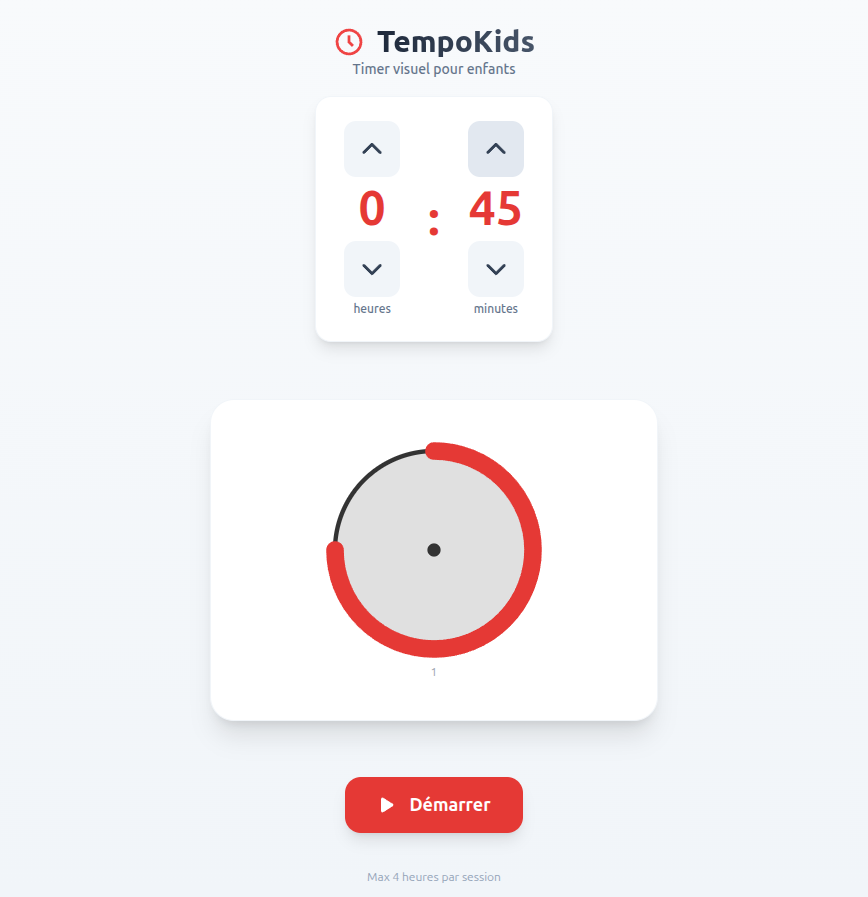
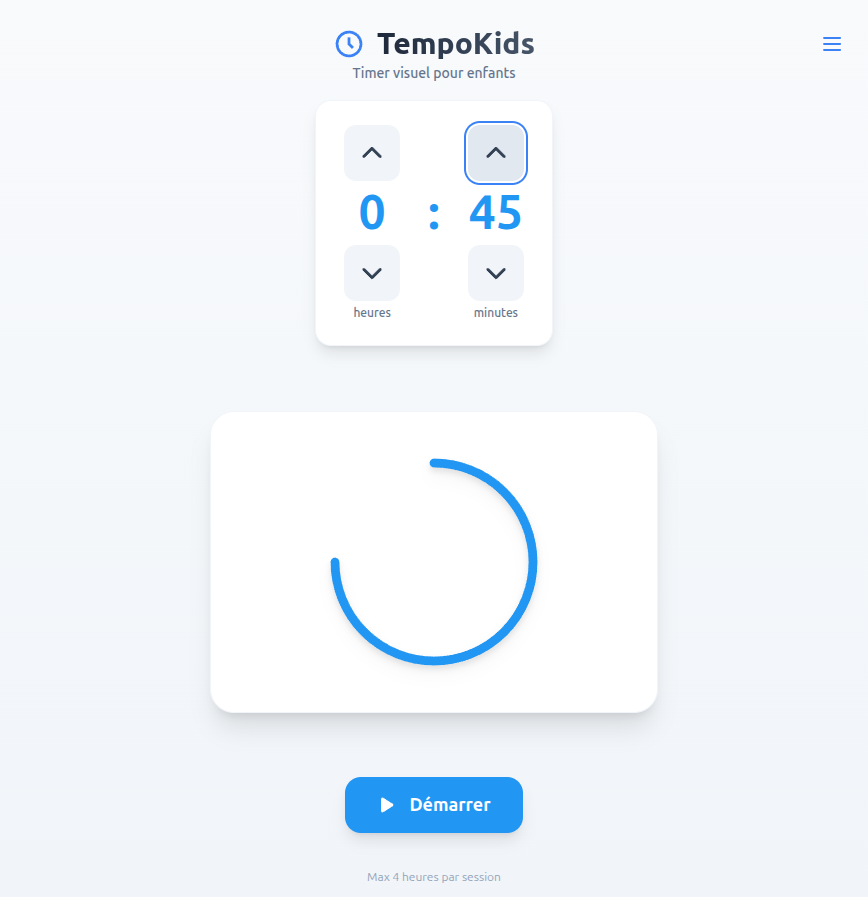
feat(menu): add pastel circle toggle option
- Add toggle switch in burger menu to enable/disable inner pastel circle
- Pastel circle disabled by default (was previously always shown)
- Remove centered circle numbers from TimerDisplay
- Add showPastel prop to ClockCircle and TimerDisplay components
- Persist pastel preference in localStorage (tempokids_pastel_enabled)
- Color picker preview respects pastel toggle state
- Add 5 new tests for pastel toggle functionality (162 total)

v1.9.0

🤖 Generated with [Claude Code](https://claude.com/claude-code)

diff --git a/src/components/BurgerMenu/BurgerMenu.tsx b/src/components/BurgerMenu/BurgerMenu.tsx
@@ -17,9 +17,11 @@ interface BurgerMenuProps {
   onSelectDuration: (minutes: number) => void
   selectedColor: string
   onSelectColor: (hex: string) => void
+  showPastel: boolean
+  onTogglePastel: (enabled: boolean) => void
 }
 
-export function BurgerMenu({ isOpen, onClose, onSelectDuration, selectedColor, onSelectColor }: BurgerMenuProps) {
+export function BurgerMenu({ isOpen, onClose, onSelectDuration, selectedColor, onSelectColor, showPastel, onTogglePastel }: BurgerMenuProps) {
   const menuRef = useRef<HTMLDivElement>(null)
   const firstButtonRef = useRef<HTMLButtonElement>(null)
   const closeButtonRef = useRef<HTMLButtonElement>(null)
@@ -159,7 +161,7 @@ export function BurgerMenu({ isOpen, onClose, onSelectDuration, selectedColor, o
         </div>
 
         {/* Color section */}
-        <div className="p-4">
+        <div className="p-4 border-b border-slate-100">
           <h3 className="text-sm font-semibold text-slate-500 uppercase tracking-wide mb-3">
             Couleur
           </h3>
@@ -183,15 +185,17 @@ export function BurgerMenu({ isOpen, onClose, onSelectDuration, selectedColor, o
                   viewBox="0 0 100 100"
                   className="w-full h-full drop-shadow"
                 >
-                  {/* Inner track (light/pastel version - inside) */}
-                  <circle
-                    cx="50"
-                    cy="50"
-                    r="36"
-                    fill="none"
-                    stroke={getLightColor(color.hex, 0.2)}
-                    strokeWidth="8"
-                  />
+                  {/* Inner track (light/pastel version - inside) - only if showPastel */}
+                  {showPastel && (
+                    <circle
+                      cx="50"
+                      cy="50"
+                      r="36"
+                      fill="none"
+                      stroke={getLightColor(color.hex, 0.2)}
+                      strokeWidth="8"
+                    />
+                  )}
                   {/* Outer color arc (full color - outside) */}
                   <circle
                     cx="50"
@@ -217,6 +221,32 @@ export function BurgerMenu({ isOpen, onClose, onSelectDuration, selectedColor, o
               </button>
             ))}
           </div>
+        </div>
+
+        {/* Pastel toggle section */}
+        <div className="p-4">
+          <h3 className="text-sm font-semibold text-slate-500 uppercase tracking-wide mb-3">
+            Options
+          </h3>
+          <label className="flex items-center justify-between cursor-pointer">
+            <span className="text-sm font-medium text-slate-700">Cercle pastel intérieur</span>
+            <button
+              type="button"
+              role="switch"
+              aria-checked={showPastel}
+              onClick={() => onTogglePastel(!showPastel)}
+              className={`relative inline-flex h-6 w-11 items-center rounded-full transition-colors focus:outline-none focus:ring-2 focus:ring-blue-500 focus:ring-offset-2 ${
+                showPastel ? 'bg-blue-500' : 'bg-slate-300'
+              }`}
+              aria-label="Activer ou désactiver le cercle pastel intérieur"
+            >
+              <span
+                className={`inline-block h-4 w-4 transform rounded-full bg-white transition-transform ${
+                  showPastel ? 'translate-x-6' : 'translate-x-1'
+                }`}
+              />
+            </button>
+          </label>
         </div>
       </div>
     </div>

diff --git a/tests/components/BurgerMenu.test.tsx b/tests/components/BurgerMenu.test.tsx
@@ -10,6 +10,8 @@ describe('BurgerMenu', () => {
     onSelectDuration: vi.fn(),
     selectedColor: TIMER_BLUE,
     onSelectColor: vi.fn(),
+    showPastel: false,
+    onTogglePastel: vi.fn(),
   }
 
   beforeEach(() => {
@@ -43,6 +45,7 @@ describe('BurgerMenu', () => {
       render(<BurgerMenu {...defaultProps} />)
       expect(screen.getByText('Durées prédéfinies')).toBeInTheDocument()
       expect(screen.getByText('Couleur')).toBeInTheDocument()
+      expect(screen.getByText('Options')).toBeInTheDocument()
     })
 
     it('displays close button', () => {
@@ -162,10 +165,11 @@ describe('BurgerMenu', () => {
     it('traps focus within the menu', async () => {
       render(<BurgerMenu {...defaultProps} />)
 
-      // Get all focusable elements (buttons and radio buttons for color picker)
+      // Get all focusable elements (buttons, radios, and switch)
       const allFocusable = [
         ...screen.getAllByRole('button'),
         ...screen.getAllByRole('radio'),
+        ...screen.getAllByRole('switch'),
       ]
       const firstFocusable = allFocusable[0]
       const lastFocusable = allFocusable[allFocusable.length - 1]
@@ -232,6 +236,43 @@ describe('BurgerMenu', () => {
     it('has radiogroup role for color selection', () => {
       render(<BurgerMenu {...defaultProps} />)
       expect(screen.getByRole('radiogroup', { name: /sélection de couleur/i })).toBeInTheDocument()
+    })
+  })
+
+  describe('Pastel Toggle', () => {
+    it('displays pastel toggle switch', () => {
+      render(<BurgerMenu {...defaultProps} />)
+      expect(screen.getByRole('switch', { name: /cercle pastel/i })).toBeInTheDocument()
+    })
+
+    it('shows toggle in off state when showPastel is false', () => {
+      render(<BurgerMenu {...defaultProps} showPastel={false} />)
+      const toggle = screen.getByRole('switch', { name: /cercle pastel/i })
+      expect(toggle).toHaveAttribute('aria-checked', 'false')
+    })
+
+    it('shows toggle in on state when showPastel is true', () => {
+      render(<BurgerMenu {...defaultProps} showPastel={true} />)
+      const toggle = screen.getByRole('switch', { name: /cercle pastel/i })
+      expect(toggle).toHaveAttribute('aria-checked', 'true')
+    })
+
+    it('calls onTogglePastel when toggle is clicked', () => {
+      const onTogglePastel = vi.fn()
+      render(<BurgerMenu {...defaultProps} showPastel={false} onTogglePastel={onTogglePastel} />)
+
+      fireEvent.click(screen.getByRole('switch', { name: /cercle pastel/i }))
+
+      expect(onTogglePastel).toHaveBeenCalledWith(true)
+    })
+
+    it('calls onTogglePastel with false when toggle is turned off', () => {
+      const onTogglePastel = vi.fn()
+      render(<BurgerMenu {...defaultProps} showPastel={true} onTogglePastel={onTogglePastel} />)
+
+      fireEvent.click(screen.getByRole('switch', { name: /cercle pastel/i }))
+
+      expect(onTogglePastel).toHaveBeenCalledWith(false)
     })
   })
 })

diff --git a/src/App.tsx b/src/App.tsx
@@ -9,12 +9,13 @@ import { BurgerMenu } from './components/BurgerMenu'
 import { useTimer } from './hooks/useTimer'
 import { useLocalStorage } from './hooks/useLocalStorage'
 import { formatTime } from './utils/time'
-import { MAX_DURATION_MINUTES, MIN_DURATION_MINUTES, TIMER_BLUE, COLOR_STORAGE_KEY } from './constants/design'
+import { MAX_DURATION_MINUTES, MIN_DURATION_MINUTES, TIMER_BLUE, COLOR_STORAGE_KEY, PASTEL_ENABLED_STORAGE_KEY } from './constants/design'
 
 function App() {
   const [durationMinutes, setDurationMinutes] = useState(60) // Default 1 hour
   const [isMenuOpen, setIsMenuOpen] = useState(false)
   const [selectedColor, setSelectedColor] = useLocalStorage(COLOR_STORAGE_KEY, TIMER_BLUE)
+  const [showPastel, setShowPastel] = useLocalStorage(PASTEL_ENABLED_STORAGE_KEY, false)
   const { state, actions } = useTimer(durationMinutes)
 
   const handleDurationChange = useCallback((minutes: number) => {
@@ -47,6 +48,10 @@ function App() {
     setSelectedColor(hex)
   }, [setSelectedColor])
 
+  const handlePastelToggle = useCallback((enabled: boolean) => {
+    setShowPastel(enabled)
+  }, [setShowPastel])
+
   const isRunningOrPaused = state.status === 'running' || state.status === 'paused'
   const isFinished = state.status === 'finished'
 
@@ -62,6 +67,8 @@ function App() {
         onSelectDuration={handlePresetSelect}
         selectedColor={selectedColor}
         onSelectColor={handleColorChange}
+        showPastel={showPastel}
+        onTogglePastel={handlePastelToggle}
       />
 
       {/* Header */}
@@ -111,6 +118,7 @@ function App() {
                 remainingSeconds={state.remainingTime}
                 isPaused={state.status === 'paused'}
                 color={selectedColor}
+                showPastel={showPastel}
               />
             </div>
           </div>

diff --git a/src/components/TimerDisplay/TimerDisplay.tsx b/src/components/TimerDisplay/TimerDisplay.tsx
@@ -12,6 +12,8 @@ interface TimerDisplayProps {
   isPaused?: boolean
   /** Custom color for circles */
   color?: string
+  /** Whether to show the inner pastel circle */
+  showPastel?: boolean
 }
 
 export function TimerDisplay({
@@ -19,6 +21,7 @@ export function TimerDisplay({
   remainingSeconds,
   isPaused = false,
   color,
+  showPastel = true,
 }: TimerDisplayProps) {
   const circlesData = useMemo(
     () => getCirclesData(totalMinutes, remainingSeconds),
@@ -51,24 +54,17 @@ export function TimerDisplay({
   return (
     <div className={`grid ${gridClass} gap-4 md:gap-6 place-items-center p-2 md:p-4`}>
       {circlesData.map((circle) => (
-        <div
+        <ClockCircle
           key={circle.index}
-          className="relative flex items-center justify-center"
-        >
-          <ClockCircle
-            fillPercentage={circle.fillPercentage}
-            maxFillPercentage={circle.maxFillPercentage}
-            size={circleSize}
-            isActive={circle.isActive}
-            isPaused={isPaused}
-            isEmpty={circle.state === 'empty'}
-            color={color}
-          />
-          {/* Circle number label - centered */}
-          <span className="absolute inset-0 flex items-center justify-center text-2xl md:text-3xl font-bold text-gray-400 pointer-events-none">
-            {circle.index + 1}
-          </span>
-        </div>
+          fillPercentage={circle.fillPercentage}
+          maxFillPercentage={circle.maxFillPercentage}
+          size={circleSize}
+          isActive={circle.isActive}
+          isPaused={isPaused}
+          isEmpty={circle.state === 'empty'}
+          color={color}
+          showPastel={showPastel}
+        />
       ))}
     </div>
   )

diff --git a/src/components/ClockCircle/ClockCircle.tsx b/src/components/ClockCircle/ClockCircle.tsx
@@ -38,6 +38,8 @@ interface ClockCircleProps {
   isEmpty?: boolean
   /** Custom fill color (defaults to TIMER_BLUE) */
   color?: string
+  /** Whether to show the inner pastel circle (defaults to true) */
+  showPastel?: boolean
 }
 
 /**
@@ -101,6 +103,7 @@ export function ClockCircle({
   isPaused = false,
   isEmpty = false,
   color = TIMER_BLUE,
+  showPastel = true,
 }: ClockCircleProps) {
   const viewBoxSize = 100
   const center = viewBoxSize / 2
@@ -138,7 +141,7 @@ export function ClockCircle({
       aria-label={`Cercle ${isEmpty ? 'vide' : `rempli à ${Math.round(fillPercentage * 100)}%`}`}
     >
       {/* Inner arc (light/pastel version - inside, same drain behavior) */}
-      {!isEmpty && fillPercentage > 0 && (
+      {showPastel && !isEmpty && fillPercentage > 0 && (
         <path
           d={innerArcPath}
           fill="none"

diff --git a/tests/components/TimerDisplay.test.tsx b/tests/components/TimerDisplay.test.tsx
@@ -39,12 +39,6 @@ describe('TimerDisplay', () => {
     expect(circles).toHaveLength(2)
   })
 
-  it('displays circle labels (1, 2, etc.)', () => {
-    render(<TimerDisplay totalMinutes={120} remainingSeconds={7200} />)
-    expect(screen.getByText('1')).toBeInTheDocument()
-    expect(screen.getByText('2')).toBeInTheDocument()
-  })
-
   it('renders with pause state', () => {
     render(<TimerDisplay totalMinutes={60} remainingSeconds={3600} isPaused={true} />)
     const circle = screen.getByRole('img')

diff --git a/src/constants/design.ts b/src/constants/design.ts
@@ -41,6 +41,9 @@ export const STORAGE_KEY = 'tempokids_timer_state'
 /** LocalStorage key for color preference */
 export const COLOR_STORAGE_KEY = 'tempokids_color'
 
+/** LocalStorage key for pastel circle preference */
+export const PASTEL_ENABLED_STORAGE_KEY = 'tempokids_pastel_enabled'
+
 /** Color palette for customization */
 export const COLOR_PALETTE = [
   { name: 'Bleu', hex: '#2196F3' },

diff --git a/.specify/memory/constitution.md b/.specify/memory/constitution.md
@@ -29,7 +29,9 @@ Fournir un outil de gestion du temps visuel qui aide les enfants à mieux appré
 
 ### II. Clarté Visuelle Maximale
 - Chaque rond représente exactement 1 heure (60 minutes)
-- Remplissage bleu (couleur TempoKids) pour une reconnaissance immédiate
+- Design dual-arc : arc coloré externe (fin) + arc pastel interne optionnel (large) qui se vident ensemble
+- Cercle pastel intérieur activable/désactivable via le menu (désactivé par défaut)
+- 12 couleurs personnalisables (persistées en localStorage)
 - Les ronds vides restent affichés pour marquer la progression
 - Indicateurs visuels clairs pour les états (pause, en cours, terminé)
 
@@ -102,9 +104,28 @@ Fournir un outil de gestion du temps visuel qui aide les enfants à mieux appré
 
 | Nom | Valeur | Usage |
 |-----|--------|-------|
-| **Bleu TempoKids** | `#2196F3` | Remplissage actif des ronds |
+| **Bleu TempoKids** | `#2196F3` | Couleur par défaut |
 | **Gris Vide** | `#E0E0E0` | Ronds vidés/terminés |
 | **Fond** | `#FFFFFF` | Arrière-plan principal |
+
+### Palette de Couleurs (12 couleurs)
+
+| Couleur | Hex |
+|---------|-----|
+| Bleu | `#2196F3` |
+| Rouge | `#F44336` |
+| Vert | `#4CAF50` |
+| Orange | `#FF9800` |
+| Violet | `#9C27B0` |
+| Rose | `#E91E63` |
+| Turquoise | `#00BCD4` |
+| Jaune | `#FFC107` |
+| Indigo | `#3F51B5` |
+| Teal | `#009688` |
+| Lime | `#8BC34A` |
+| Amber | `#FF5722` |
+
+La couleur sélectionnée est persistée en localStorage et appliquée aux cercles, contrôles et sélecteur de durée.
 
 ---
 
@@ -143,6 +164,9 @@ Ces fonctionnalités sont explicitement exclues de la première version :
 | Rollover minutes DurationPicker (+/- par pas de 5) | ✅ Implémenté v1.4.0 |
 | Persistance état timer au rechargement | ✅ Implémenté v1.5.0 |
 | Menu burger avec durées prédéfinies | ✅ Implémenté v1.7.0 |
+| Design dual-arc (externe coloré + interne pastel) | ✅ Implémenté v1.8.0 |
+| Sélecteur de couleur (12 couleurs) | ✅ Implémenté v1.8.0 |
+| Toggle cercle pastel (activable/désactivable) | ✅ Implémenté v1.9.0 |
 
 ---
 
@@ -150,6 +174,8 @@ Ces fonctionnalités sont explicitement exclues de la première version :
 
 | Version | Date | Description |
 |---------|------|-------------|
+| 1.9.0 | 2025-12-21 | Toggle cercle pastel (désactivé par défaut), suppression numéros centrés |
+| 1.8.0 | 2025-12-21 | Design dual-arc, numéro centré, sélecteur 12 couleurs (persisté localStorage) |
 | 1.7.0 | 2025-12-21 | Menu burger avec durées prédéfinies (30, 45, 75, 90, 120, 150 min) |
 | 1.6.0 | 2025-12-21 | Changement couleur par défaut: rouge → bleu (#2196F3) |
 | 1.5.0 | 2025-12-21 | Persistance état timer au rechargement (running/paused/config conservé) |
@@ -165,4 +191,4 @@ Ces fonctionnalités sont explicitement exclues de la première version :
 
 Cette constitution définit les principes fondamentaux du projet. Toute modification majeure de l'architecture ou des principes de design doit être documentée et justifiée.
 
-**Version**: 1.7.0 | **Ratified**: 2025-12-20 | **Last Amended**: 2025-12-21 | **Implemented**: 2025-12-21
+**Version**: 1.9.0 | **Ratified**: 2025-12-20 | **Last Amended**: 2025-12-21 | **Implemented**: 2025-12-21

diff --git a/README.md b/README.md
@@ -8,8 +8,11 @@ Application PWA de gestion visuelle du temps pour enfants. Représentation analo
 
 - **Saisie intuitive** : Configurez la durée en heures et minutes (max 4 heures)
 - **Ronds d'horloge** : Chaque rond représente 1 heure (style Time-Timer)
+- **Design dual-arc** : Arc coloré externe + arc pastel interne optionnel qui se vident ensemble
 - **Menu burger** : Accès rapide à des durées prédéfinies (30 min, 45 min, 1h15, 1h30, 2h, 2h30)
-- **Décompte visuel** : Le remplissage bleu se retire dans le sens horaire depuis 12h
+- **Sélecteur de couleur** : 12 couleurs personnalisables (persistées en localStorage)
+- **Toggle cercle pastel** : Activation/désactivation du cercle pastel intérieur (désactivé par défaut)
+- **Décompte visuel** : Le remplissage se retire dans le sens horaire depuis 12h
 - **Contrôles simples** : Démarrer, Pause, Reset
 - **Animation pause** : Pulsation visuelle quand le timer est en pause
 - **Design mobile-first** : Interface optimisée pour mobiles et tablettes
@@ -125,7 +128,7 @@ pnpm test:watch
 pnpm test:coverage
 ```
 
-**Résultats actuels** : 152/152 tests passés
+**Résultats actuels** : 162/162 tests passés
 
 ## PWA
 
